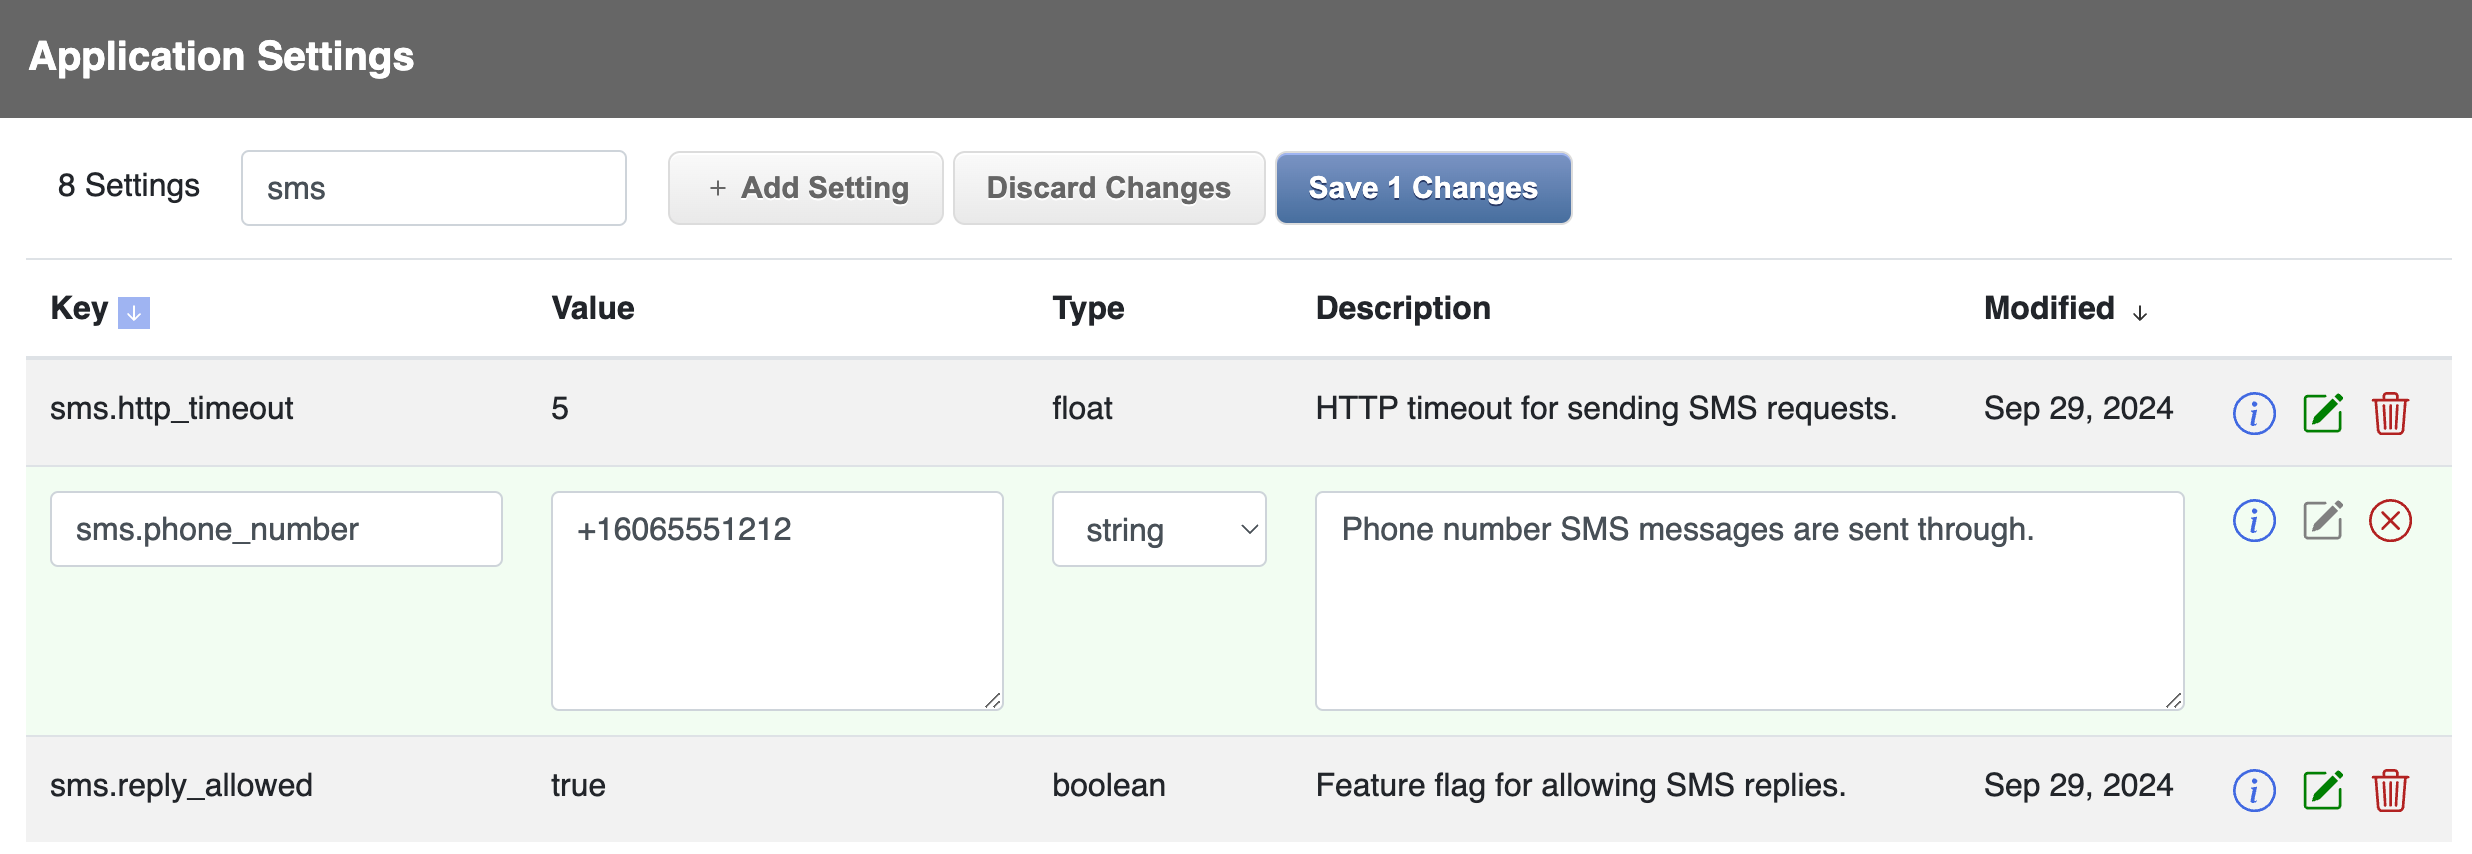
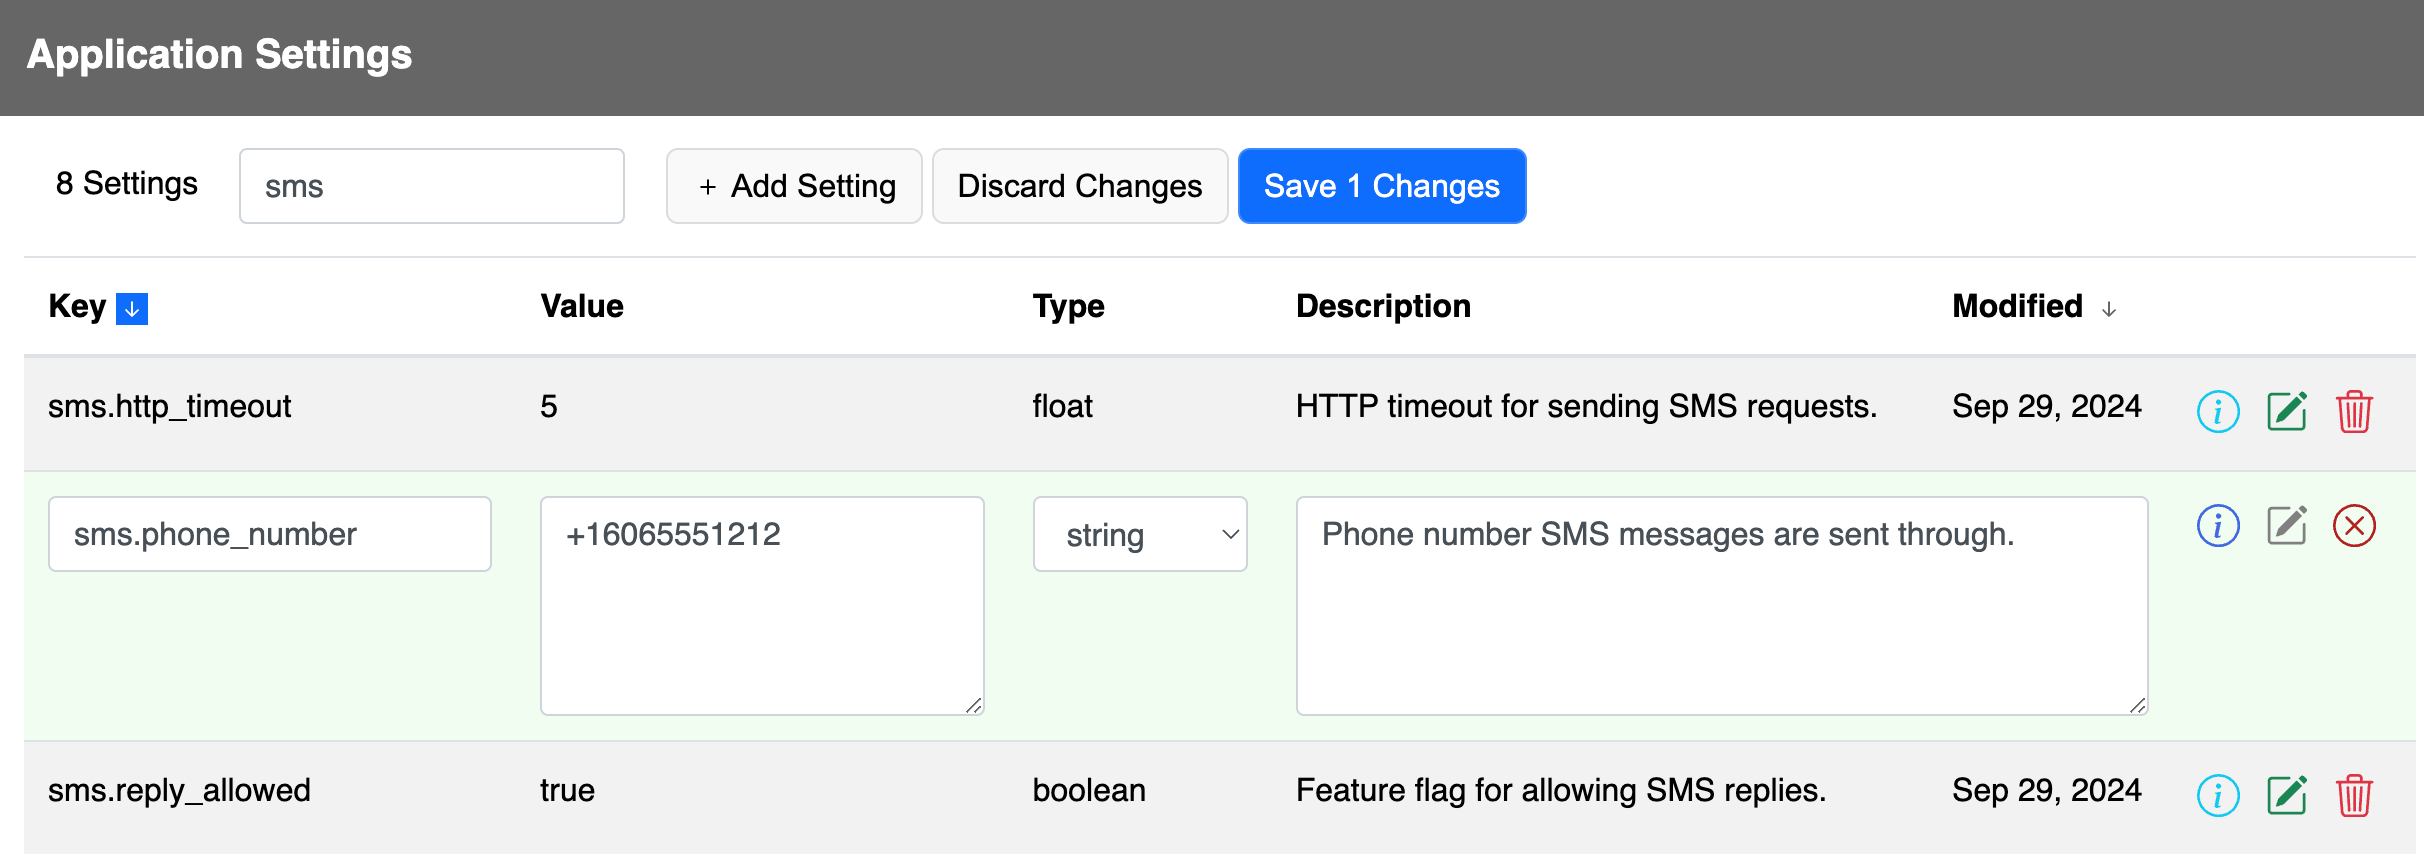
modernize buttons

diff --git a/lib/super_settings/application/styles.css b/lib/super_settings/application/styles.css
@@ -28,13 +28,17 @@
   display: none;
 }
 
-.super-settings-sort-control {
-  color: var(--unselected-color);
-  background-color: inherit;
-  border: 0;
-  padding: 0;
+.btn-no-chrome {
   display: inline-block;
   vertical-align: middle;
+  background-color: transparent;
+  border: 0;
+  padding: 0;
+  cursor: pointer;
+}
+
+.super-settings-sort-control {
+  color: var(--unselected-color);
 }
 
 .super-settings-sort-control svg {
@@ -146,7 +150,6 @@
   right: 0;
   border: 0;
   padding: 1ex;
-  background-color: inherit;
   color: var(--modal-control-color);
   font-size: 1.5rem;
   font-weight: 500;
@@ -189,6 +192,10 @@
   border: 1px solid var(--form-control-border-color);
   border-radius: .25rem;
   transition: border-color .15s ease-in-out,box-shadow .15s ease-in-out;
+}
+
+.super-settings-form-control::placeholder {
+  color: var(--form-control-placeholder-color);
 }
 
 select.super-settings-form-control:not([size]):not([multiple]) {
@@ -234,23 +241,24 @@ select.super-settings-form-control:not([size]):not([multiple]) {
 }
 
 .super-settings-btn {
-	box-shadow:inset 0px 1px 0px 0px #ffffff;
-	background:linear-gradient(to bottom, #f9f9f9 5%, #e9e9e9 100%);
-	background-color:#f9f9f9;
-	border-radius:6px;
-	border:1px solid #dcdcdc;
-	display:inline-block;
-	color:#666666;
-	font-family:Arial;
-	font-size:15px;
-	font-weight:bold;
-	padding:9px 16px;
-	text-decoration:none;
-	text-shadow:0px 1px 0px #ffffff;
+	display: inline-block;
   vertical-align: middle;
+  padding: 0.375rem 0.75rem;
+	border-radius: 0.375rem;
+	border: 1px solid #dcdcdc;
+	background-color:#f9f9f9;
+	text-decoration: none;
+  text-align: center;
+	font-family: Arial, sans-serif;
+  font-size: 1rem;
+	font-weight: 400;
+  line-height: 1.5;
+  user-select: none;
+  cursor: pointer;
+  transition: color .15s ease-in-out,background-color .15s ease-in-out,border-color .15s ease-in-out, box-shadow .15s ease-in-out;
 }
-.super-settings-btn:hover {
-	background:linear-gradient(to bottom, #e9e9e9 5%, #f9f9f9 100%);
+
+.super-settings-btn:hover:not(:disabled) {
 	background-color:#e9e9e9;
 }
 .super-settings-btn:active {
@@ -258,31 +266,19 @@ select.super-settings-form-control:not([size]):not([multiple]) {
 	top:1px;
 }
 .super-settings-btn:disabled {
-	background:linear-gradient(to bottom, #f9f9f9 5%, #e9e9e9 100%);
-	background-color:#f9f9f9;
-  opacity: 0.65;
-  box-shadow: none;
+  opacity: 0.8;
+  cursor: not-allowed;
 }
 
 .super-settings-btn-primary {
-	box-shadow:inset 0px 1px 0px 0px #9fb4f2;
-	background:linear-gradient(to bottom, #7892c2 5%, #476e9e 100%);
-	background-color:#7892c2;
-	color:#ffffff;
-	text-shadow:0px 1px 0px #283966;
+  background-color: var(--primary-color);
+  border-color: var(--primary-border-color);
+	color: var(--primary-contrast-color);
 }
-.super-settings-btn-primary:hover {
-	background:linear-gradient(to bottom, #476e9e 5%, #7892c2 100%);
-	background-color:#476e9e;
-}
-.super-settings-btn-primary:disabled {
-	background:linear-gradient(to bottom, #7892c2 5%, #476e9e 100%);
-	background-color:#7892c2;
+.super-settings-btn-primary:hover:not(:disabled) {
+	background-color: var(--primary-hover-color);
 }
 
-.super-settings-btn:not(:disabled) {
-  cursor: pointer;
-}
-.super-settings-btn:disabled {
-  opacity: .65;
+.super-settings-btn-primary:disabled {
+  opacity: 0.5;
 }

diff --git a/lib/super_settings/application/scripts.js b/lib/super_settings/application/scripts.js
@@ -771,7 +771,7 @@
 
     const svg = element.querySelector(`[data-order=${element.dataset.order}]`).querySelector("svg");
     if (selected) {
-      svg.style.backgroundColor = getComputedStyle(document.querySelector(".super-settings")).getPropertyValue("--selected-color");
+      svg.style.backgroundColor = getComputedStyle(document.querySelector(".super-settings")).getPropertyValue("--primary-color");
       svg.style.fill = "white";
     } else {
       svg.style.backgroundColor = null;

diff --git a/README.md b/README.md
@@ -364,13 +364,7 @@ Open a pull request on GitHub.
 
 Please use the [standardrb](https://github.com/testdouble/standard) syntax and lint your code with `standardrb --fix` before submitting.
 
-You can run a local development rack server using Redis storage with
-
-```bash
-bin/rackup
-```
-
-Or a local development Rails server using ActiveRecord storage with
+You can run a local Rails development using ActiveRecord storage with
 
 ```bash
 # Initialize the database (one time only)
@@ -379,6 +373,30 @@ bin/rails db:migrate
 
 # Start the server
 bin/rails s
+```
+
+You can also bring up a local rack server with
+
+```bash
+bundle exec rackup
+```
+
+By default this will use Redis for storage using the default Redis URL. You can change the storage engine with the `SUPER_SETTINGS_STORAGE` environment variable.
+
+```bash
+SUPER_SETTINGS_STORAGE=redis://localhost:9500 bundle exec rackup
+```
+
+Or you can use the HTTP storage engine to connect to the REST API running on the Rails server.
+
+```bash
+SUPER_SETTINGS_STORAGE=http://localhost:3000/settings bundle exec rackup
+```
+
+Finally, you can run the application in dark mode by setting the `COLOR_SCHEME` environment variable.
+
+```bash
+COLOR_SCHEME=dark bundle exec rackup
 ```
 
 ## License
